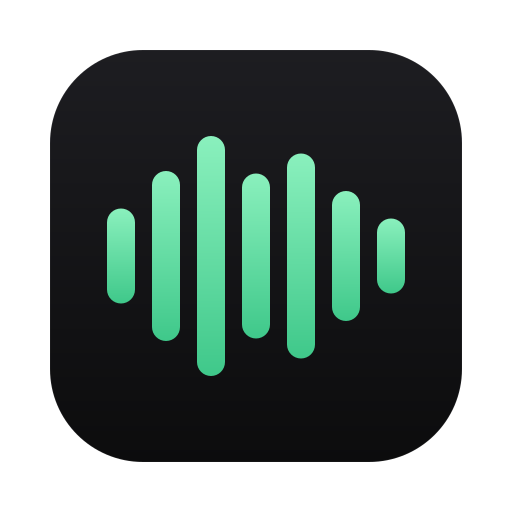
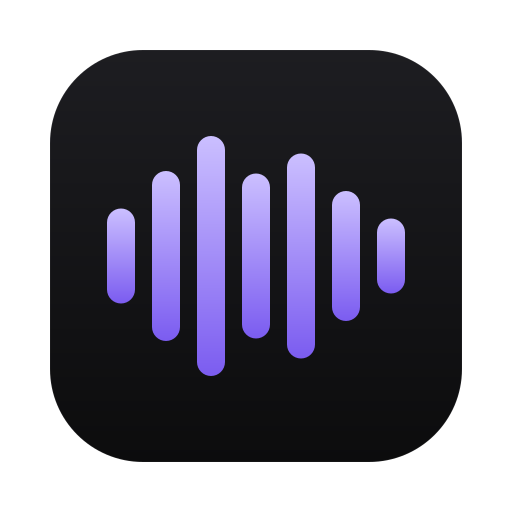
Switch Voice Notes to its own violet accent
Voice Notes shared Focus Timer's mint, which also sits close to
WhatsApp's green. Both the app and the website now use violet
(#684CE6 light, #AC96FF dark), with Focus Timer's neutrals kept.

- App: accent tokens and the waveform icon (iconset regenerated).
- Site: tokens, icons, social card, and a peach glow on the demo
  desktop to sit against the violet.
- Version 0.1.2, ready to tag.

Changed region(s): [[0.1875, 0.25, 0.4375, 0.75], [0.5625, 0.2812, 0.8125, 0.7188], [0.4688, 0.3438, 0.5312, 0.6562]]

diff --git a/site/styles.css b/site/styles.css
@@ -1,6 +1,6 @@
 /* Voice Notes site. Tokens come straight from the app (src/mainview/index.css),
-   which shares them with Focus Timer, so the page and the window it shows read
-   as one object: one neutral family, one mint accent. */
+   whose neutrals come from Focus Timer, so the page and the window it shows read
+   as one object: one neutral family, one violet accent. */
 
 @font-face {
 	font-family: "Geist";
@@ -56,8 +56,8 @@
 	--ink: 22 22 24;
 	--ink-2: 88 88 94;
 	--ink-3: 124 124 130;
-	--accent: 20 158 101;
-	--accent-ink: 250 255 252;
+	--accent: 104 76 230;
+	--accent-ink: 250 249 255;
 	--danger: 204 66 56;
 	--shadow: 40 40 30;
 	--grain: 0.045;
@@ -88,8 +88,8 @@
 		--ink: 236 236 238;
 		--ink-2: 160 160 168;
 		--ink-3: 112 112 120;
-		--accent: 112 230 170;
-		--accent-ink: 5 28 17;
+		--accent: 172 150 255;
+		--accent-ink: 20 12 48;
 		--danger: 238 112 100;
 		--shadow: 0 0 0;
 		--grain: 0.07;
@@ -107,8 +107,8 @@
 	--ink: 236 236 238;
 	--ink-2: 160 160 168;
 	--ink-3: 112 112 120;
-	--accent: 112 230 170;
-	--accent-ink: 5 28 17;
+	--accent: 172 150 255;
+	--accent-ink: 20 12 48;
 	--danger: 238 112 100;
 	--shadow: 0 0 0;
 	--grain: 0.07;
@@ -988,7 +988,7 @@ code {
 	overflow: hidden;
 	background:
 		radial-gradient(ellipse 70% 60% at 20% 90%, rgb(var(--accent) / 0.22), transparent 70%),
-		radial-gradient(ellipse 60% 50% at 90% 10%, rgb(120 140 255 / 0.18), transparent 70%),
+		radial-gradient(ellipse 60% 50% at 90% 10%, rgb(255 150 120 / 0.14), transparent 70%),
 		linear-gradient(160deg, rgb(var(--bg-2)), rgb(var(--bg)));
 	box-shadow: 0 0 0 1px rgb(var(--line));
 }

diff --git a/src/mainview/index.css b/src/mainview/index.css
@@ -2,7 +2,7 @@
 @tailwind components;
 @tailwind utilities;
 
-/* ── Tokens (shared with Focus Timer) ───────────────────────────────────── */
+/* ── Tokens (Focus Timer's neutrals, violet accent) ────────────────────────────────── */
 
 :root {
 	--bg: 243 243 240;
@@ -13,8 +13,8 @@
 	--ink: 22 22 24;
 	--ink-2: 88 88 94;
 	--ink-3: 138 138 144;
-	--accent: 20 158 101;
-	--accent-ink: 250 255 252;
+	--accent: 104 76 230;
+	--accent-ink: 250 249 255;
 	--warn: 190 124 18;
 	--danger: 204 66 56;
 	color-scheme: light;
@@ -29,8 +29,8 @@
 	--ink: 236 236 238;
 	--ink-2: 160 160 168;
 	--ink-3: 104 104 112;
-	--accent: 112 230 170;
-	--accent-ink: 5 28 17;
+	--accent: 172 150 255;
+	--accent-ink: 20 12 48;
 	--warn: 242 188 92;
 	--danger: 238 112 100;
 	color-scheme: dark;

diff --git a/site/app.js b/site/app.js
@@ -1001,7 +1001,7 @@
 
 	function cssColor(name) {
 		const v = getComputedStyle(document.documentElement).getPropertyValue(name).trim().split(/\s+/).map(Number);
-		return v.length >= 3 ? v : [112, 230, 170];
+		return v.length >= 3 ? v : [172, 150, 255];
 	}
 
 	function buildFinalWave() {
